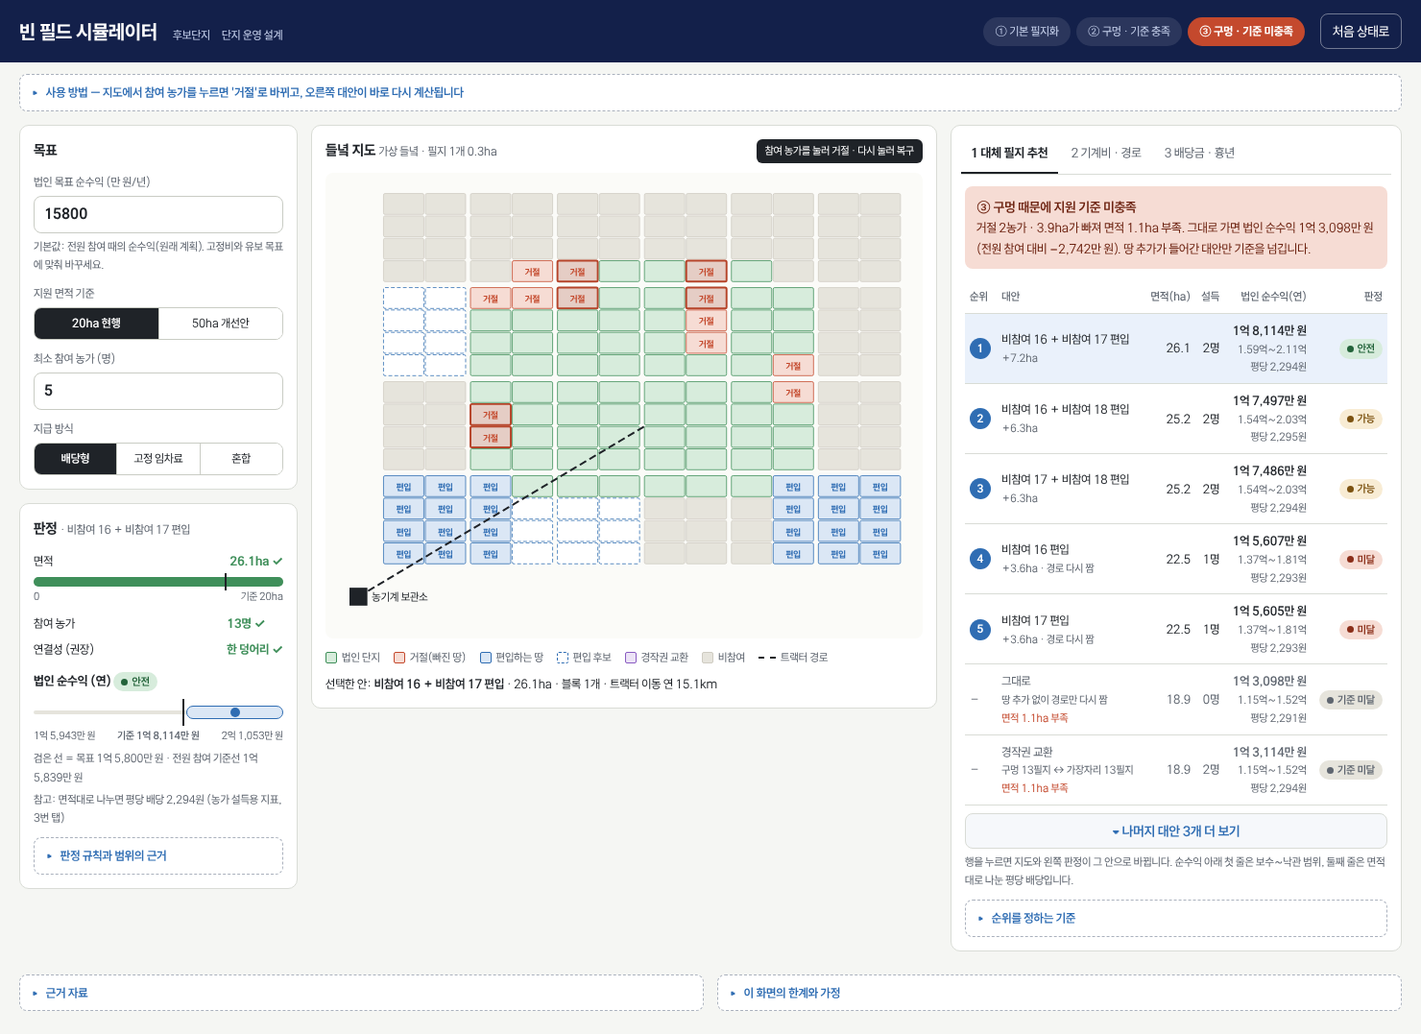
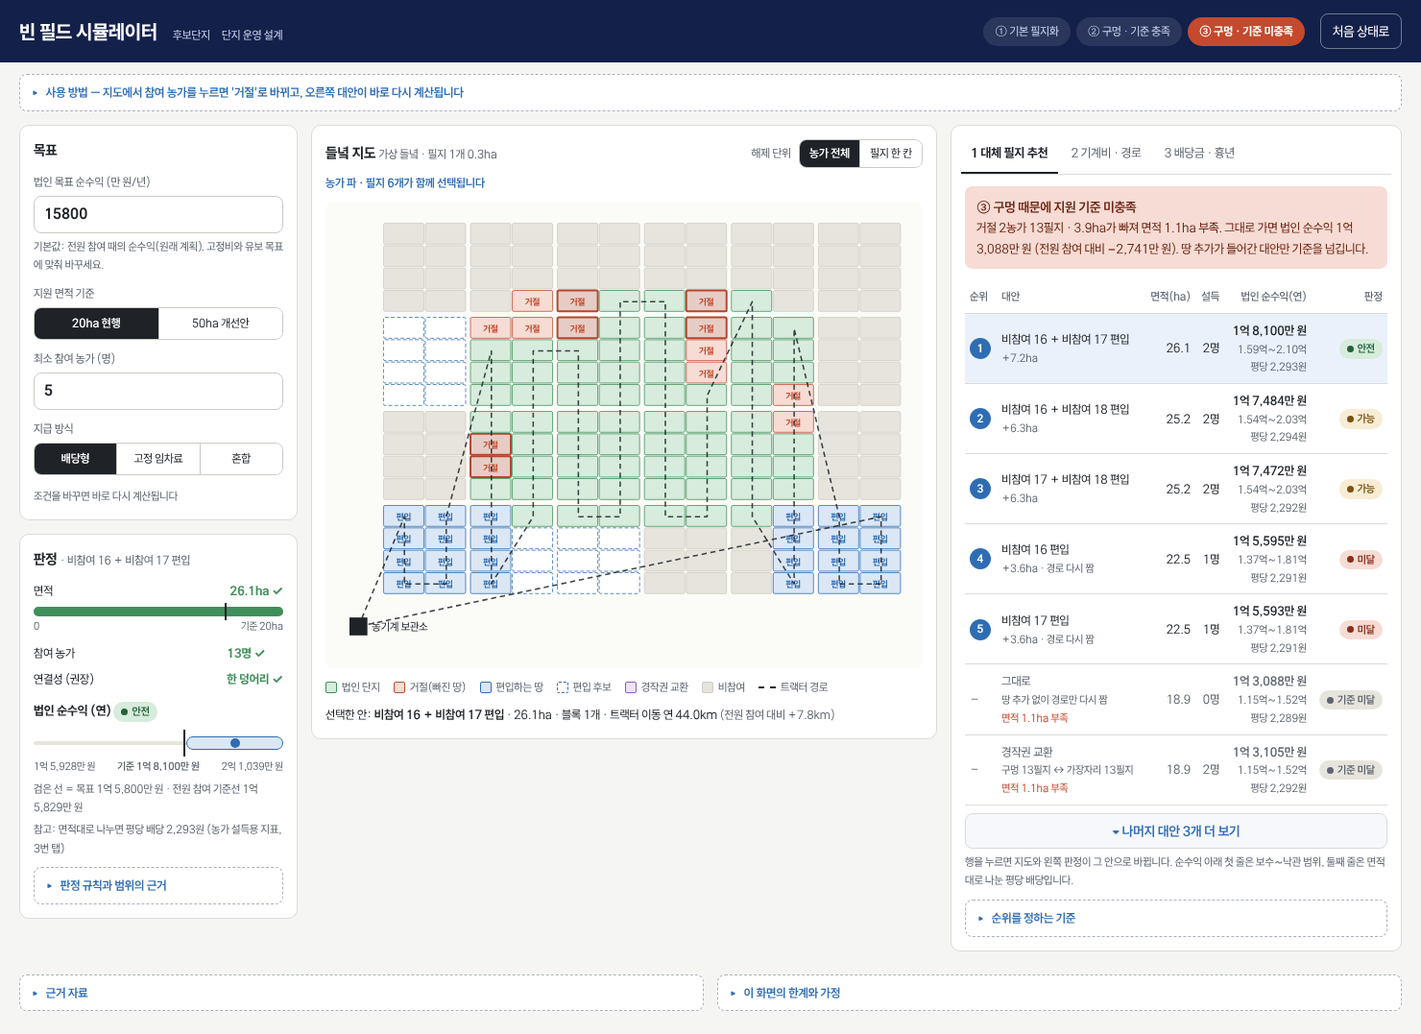
빈 필드 시뮬레이터: 해제 단위 전환, 재계산 표시, 대안별 작업 경로
- 지도에 해제 단위(농가 전체 / 필지 한 칸) 전환을 넣고, 마우스를 올리면
  함께 선택될 필지 수를 안내한다. 기본은 농가 단위로 둔다.
- 조건을 바꾸면 다시 계산된 영역을 잠깐 강조하고 무엇이 바뀌었는지
  표시한다. 전원 참여 상태에서도 기준 미충족이면 배너에 알린다.
- 트랙터 경로를 블록 중심 순회에서 열 단위 지그재그 작업 경로로 바꿔,
  구멍과 편입한 땅에 따라 대안마다 경로와 이동거리가 달라지게 했다.

Claude-Session: https://claude.ai/code/session_0161mLUcoBP3ViVYVjSdBr3X

Changed region(s): [[0.0, 0.2451, 0.6527, 0.8886], [0.2176, 0.1226, 0.6527, 0.2145], [0.6838, 0.2145, 0.9635, 0.2451]]

diff --git a/web/empty-field.js b/web/empty-field.js
@@ -16,7 +16,7 @@ const P = {
   PY_PER_HA: 3025,
   REV: { lo: 1152.9, mid: 1236.1, hi: 1348.7 },   // 만원/ha
   COST: 538,                  // 만원/ha
-  OPS: 8, SETUP_H: 0.25, TURN_H: 2 / 60, MACH_WON_H: 60000, SPEED_KMH: 12, DETOUR: 1.3,
+  OPS: 8, SETUP_H: 0.25, TURN_H: 2 / 60, MACH_WON_H: 60000, SPEED_KMH: 12,
   RENT_PY: 927, BONUS: 0.5,
   SEED: 7,
 };
@@ -86,21 +86,17 @@ function components(set) {
   return comps;
 }
 const dist = (a, b) => Math.hypot(a[0] - b[0], a[1] - b[1]);
-function tour(depot, pts) {
-  // 최근접 이웃 + 2-opt, 보관소에서 출발해 돌아온다
-  const rest = pts.slice(), path = [depot];
-  let cur = depot;
-  while (rest.length) { let bi = 0; rest.forEach((q, i) => { if (dist(cur, q) < dist(cur, rest[bi])) bi = i; }); cur = rest.splice(bi, 1)[0]; path.push(cur); }
-  path.push(depot);
-  let improved = true;
-  while (improved) {
-    improved = false;
-    for (let i = 1; i < path.length - 2; i++) for (let k = i + 1; k < path.length - 1; k++) {
-      const d0 = dist(path[i - 1], path[i]) + dist(path[k], path[k + 1]);
-      const d1 = dist(path[i - 1], path[k]) + dist(path[i], path[k + 1]);
-      if (d1 + 1e-6 < d0) { path.splice(i, k - i + 1, ...path.slice(i, k + 1).reverse()); improved = true; }
-    }
-  }
+// 작업 경로: 보관소에서 출발해, 농로로 나뉜 열을 왼쪽부터 차례로 지그재그로 돌며 모든 필지를 지나고 돌아온다.
+// 구멍은 건너뛰고(빈 칸만큼 경로가 길어짐), 편입한 땅은 경로에 더해진다. 대안마다 경로가 달라진다.
+function coverPath(set) {
+  const cols = new Map();
+  for (const id of set) { const p = F.parcels[id]; if (!cols.has(p.x)) cols.set(p.x, []); cols.get(p.x).push(p); }
+  const path = [F.depot];
+  [...cols.keys()].sort((a, b) => a - b).forEach((x, i) => {
+    const list = cols.get(x).sort((a, b) => (i % 2 ? b.y - a.y : a.y - b.y));
+    list.forEach((p) => path.push([cx(p), cy(p)]));
+  });
+  path.push(F.depot);
   let len = 0; for (let i = 1; i < path.length; i++) len += dist(path[i - 1], path[i]);
   return { path, km: len / 1000 };
 }
@@ -109,12 +105,11 @@ function tour(depot, pts) {
 function evaluate(set, extra = {}) {
   const area = set.size * P.HA;
   const comps = components(set);
-  const cents = comps.map((c) => { let sx = 0, sy = 0, a = 0; c.forEach((id) => { const p = F.parcels[id]; sx += cx(p); sy += cy(p); a++; }); return [sx / a, sy / a]; });
-  const t = tour(F.depot, cents);
+  const t = coverPath(set);
   let edges = 0;
   for (const id of set) for (const nb of neighbors(F.parcels[id])) if (!set.has(nb)) edges++;
   const setupH = comps.length * P.OPS * P.SETUP_H;
-  const travelH = t.km * P.DETOUR * P.OPS / P.SPEED_KMH;
+  const travelH = t.km * P.OPS / P.SPEED_KMH;
   const turnH = edges * P.OPS * P.TURN_H;
   const fieldH = area * P.OPS * 0.4;
   const machineWon = (setupH + travelH + turnH) * P.MACH_WON_H;
@@ -125,7 +120,7 @@ function evaluate(set, extra = {}) {
   const farmSet = new Set([...set].map((id) => F.parcels[id].owner));
   const memberFarms = [...farmSet].filter((f) => F.farms.get(f).member || (extra.added || []).includes(f));
   return {
-    set, area, blocks: comps.length, routeKm: t.km * P.DETOUR, path: t.path, edges,
+    set, area, blocks: comps.length, routeKm: t.km, path: t.path, edges,
     hours: setupH + travelH + turnH + fieldH, machineWon, per, pyeong,
     farms: memberFarms.length, net,
   };
@@ -136,15 +131,18 @@ const VERD = { safe: ["안전", "safe"], ok: ["가능", "ok"], bad: ["미달", "
 const RANK = { safe: 0, ok: 1, bad: 2 };
 
 // ---------------------------------------------------------------- 상태
-const S = { refused: new Set(), areaMin: 20, farmMin: 5, target: null, pay: "div", shock: 20, sel: null, tab: 1, hoverFarm: null };
+// off: 해제(거절)된 참여 필지 id. unit: 지도 클릭 단위(farm = 농가 전체, parcel = 필지 한 칸)
+const S = { off: new Set(), unit: "farm", areaMin: 20, farmMin: 5, target: null, pay: "div", shock: 20, sel: null, tab: 1, hover: null };
+const refusedFarms = () => new Set([...S.off].map((id) => F.parcels[id].owner));
 let F = buildField(P.SEED);
 let VIEW = null; // 마지막 계산 결과
 
 function memberParcels() { return F.parcels.filter((p) => p.member).map((p) => p.id); }
 
 function buildOptions() {
-  const base = new Set(memberParcels().filter((id) => !S.refused.has(F.parcels[id].owner)));
-  const holes = memberParcels().filter((id) => S.refused.has(F.parcels[id].owner));
+  const base = new Set(memberParcels().filter((id) => !S.off.has(id)));
+  const holes = memberParcels().filter((id) => S.off.has(id));
+  const nRefused = refusedFarms().size;
   const opts = [];
   const mk = (key, name, sub, set, persuade, meta = {}) => {
     const ev = evaluate(set, meta);
@@ -155,7 +153,7 @@ function buildOptions() {
     opts.push({ key, name, sub, persuade, meets, why: why.join(" · "), v: verdict(ev.net, S.target), ...meta, ev });
   };
 
-  if (!S.refused.size) {
+  if (!S.off.size) {
     mk("base", "기본 필지화", "전원 참여 · 구멍 없음", base, 0);
     return { opts, base, holes };
   }
@@ -172,7 +170,7 @@ function buildOptions() {
   if (edgeCands.length >= holes.length) {
     exGive = edgeCands.slice(0, holes.length);
     exSet = new Set([...base].filter((id) => !exGive.includes(id)).concat(holes));
-    mk("ex", "경작권 교환", `구멍 ${holes.length}필지 ↔ 가장자리 ${holes.length}필지`, exSet, S.refused.size, { exIn: holes, exOut: exGive });
+    mk("ex", "경작권 교환", `구멍 ${holes.length}필지 ↔ 가장자리 ${holes.length}필지`, exSet, nRefused, { exIn: holes, exOut: exGive });
   }
 
   // 땅 추가: 단지에 닿아 있는 비참여 농가를 농가 단위로 편입
@@ -191,7 +189,7 @@ function buildOptions() {
   }
   if (exSet && top.length) {
     const c = top[0];
-    mk(`exadd:${c.f}`, `교환 + ${c.f} 편입`, `구멍 메움 + ${(c.ids.length * P.HA).toFixed(1)}ha`, new Set([...exSet, ...c.ids]), S.refused.size + 1, { exIn: holes, exOut: exGive, added: [c.f], addIds: c.ids });
+    mk(`exadd:${c.f}`, `교환 + ${c.f} 편입`, `구멍 메움 + ${(c.ids.length * P.HA).toFixed(1)}ha`, new Set([...exSet, ...c.ids]), nRefused + 1, { exIn: holes, exOut: exGive, added: [c.f], addIds: c.ids });
   }
   return { opts, base, holes, candFarms: top.map((c) => c.f) };
 }
@@ -236,11 +234,19 @@ function recompute() {
   const { opts, holes, candFarms } = buildOptions();
   const ranked = rankOptions(opts);
   const keep = opts.find((o) => o.key === "keep" || o.key === "base");
-  const stage = !S.refused.size ? 0 : keep.meets ? 1 : 2;
+  const stage = !S.off.size ? 0 : keep.meets ? 1 : 2;
   if (!ranked.some((o) => o.key === S.sel)) S.sel = (ranked.find((o) => o.rank === 1) || ranked[0]).key;
   const sel = ranked.find((o) => o.key === S.sel);
   VIEW = { ranked, sel, stage, holes, candFarms: candFarms || [], keep, full };
   renderStepper(); renderBanner(); renderJudge(); renderMap(); renderOptions(); renderMachine(); renderPayout();
+}
+// 조건을 바꿨을 때 다시 계산된 영역을 잠깐 강조해, 바뀐 것을 눈으로 알 수 있게 한다
+function flash(note) {
+  ["banner", "judge", "optTable", "machine", "payout"].forEach((id) => {
+    const n = $(id); if (!n) return;
+    n.classList.remove("flash"); void n.offsetWidth; n.classList.add("flash");
+  });
+  if (note) { const s = $("recalc"); s.textContent = `${note} → 다시 계산했습니다`; s.classList.remove("flash"); void s.offsetWidth; s.classList.add("flash"); }
 }
 
 function renderStepper() {
@@ -253,13 +259,17 @@ function renderStepper() {
 
 function renderBanner() {
   const b = $("banner"), { stage, keep, holes } = VIEW;
-  const nRef = S.refused.size, holeHa = holes.length * P.HA;
+  const holeHa = holes.length * P.HA;
+  const who = `${refusedFarms().size}농가 ${holes.length}필지 · ${ha(holeHa)}`;
   b.className = `banner s${stage}`;
   const gap = keep.ev.net.mid - VIEW.full.net.mid;
   const netLine = `법인 순수익 ${krw(keep.ev.net.mid)} (전원 참여 대비 ${gap >= 0 ? "+" : "−"}${krw(Math.abs(gap))})`;
-  if (stage === 0) b.innerHTML = `<b>① 기본 필지화 · 전원 참여</b>참여 농가 ${keep.ev.farms}곳, ${ha(keep.ev.area)}, 법인 순수익 ${krw(keep.ev.net.mid)}. 이 결과가 모든 비교의 기준선입니다. 지도에서 참여 농가를 눌러 거절을 시험해 보세요.`;
-  else if (stage === 1) b.innerHTML = `<b>② 구멍이 났지만 지원 기준 충족</b>거절 ${nRef}농가 · ${ha(holeHa)}가 빠져도 ${ha(keep.ev.area)}로 기준(${S.areaMin}ha)을 넘습니다. 그대로 가면 ${netLine}. 아래에서 순수익을 되찾는 대안과 비교하세요.`;
-  else b.innerHTML = `<b>③ 구멍 때문에 지원 기준 미충족</b>거절 ${nRef}농가 · ${ha(holeHa)}가 빠져 ${keep.why}. 그대로 가면 ${netLine}. 땅 추가가 들어간 대안만 기준을 넘깁니다.`;
+  const goal = keep.ev.net.mid >= S.target ? `목표 순수익 ${krw(S.target)} 달성` : `목표 순수익 ${krw(S.target)}에 ${krw(S.target - keep.ev.net.mid)} 모자람`;
+  if (stage === 0) {
+    const crit = keep.meets ? `지원 기준 충족 · ${goal}` : `<span class="fail">전원 참여해도 지원 기준 미충족: ${esc(keep.why)}</span>`;
+    b.innerHTML = `<b>① 기본 필지화 · 전원 참여</b>참여 농가 ${keep.ev.farms}곳, ${ha(keep.ev.area)}, 법인 순수익 ${krw(keep.ev.net.mid)}. ${crit}. 이 결과가 모든 비교의 기준선입니다. 지도에서 참여 농가를 눌러 거절을 시험해 보세요.`;
+  } else if (stage === 1) b.innerHTML = `<b>② 구멍이 났지만 지원 기준 충족</b>거절 ${who}가 빠져도 ${ha(keep.ev.area)}로 기준(${S.areaMin}ha)을 넘습니다. 그대로 가면 ${netLine}, ${goal}. 아래에서 순수익을 되찾는 대안과 비교하세요.`;
+  else b.innerHTML = `<b>③ 구멍 때문에 지원 기준 미충족</b>거절 ${who}가 빠져 ${esc(keep.why)}. 그대로 가면 ${netLine}. 땅 추가가 들어간 대안만 기준을 넘깁니다.`;
 }
 
 function renderJudge() {
@@ -313,22 +323,26 @@ function renderMap() {
     if (exOut.has(p.id)) { fill = "#fff"; stroke = "var(--ex)"; dash = "5 3"; label = "→거절농가"; }
     if (!p.member && candSet.has(p.id) && !add.has(p.id)) { fill = "#fff"; stroke = "var(--cand)"; dash = "5 3"; }
     if (add.has(p.id)) { fill = "var(--cand-soft)"; stroke = "var(--cand)"; label = "편입"; }
-    if (S.hoverFarm && p.owner === S.hoverFarm) cls += " hl";
+    if (S.hover !== null && hoverGroup(S.hover).has(p.id)) cls += " hl";
     const r = el("rect", { x: px(p) * SX, y: py(p), width: P.PW * SX - 2, height: P.PH - 2, rx: 2, fill, stroke, class: cls, "data-id": p.id }, g);
     if (dash) r.setAttribute("stroke-dasharray", dash);
-    if (p.member) { r.setAttribute("tabindex", "0"); r.setAttribute("role", "button"); r.setAttribute("aria-label", `${p.owner} 필지, ${S.refused.has(p.owner) ? "거절됨. 눌러서 복구" : "참여 중. 눌러서 거절"}`); }
-    const tt = el("title", {}, r); tt.textContent = `${p.owner}${p.member ? (S.refused.has(p.owner) ? " · 거절" : " · 참여") : " · 비참여"}`;
+    const off = S.off.has(p.id), nFarm = F.farms.get(p.owner).parcels.length;
+    const scope = S.unit === "farm" ? `${p.owner}의 필지 ${nFarm}개 전체` : "이 필지 한 칸";
+    if (p.member) { r.setAttribute("tabindex", "0"); r.setAttribute("role", "button"); r.setAttribute("aria-label", `${p.owner} 필지, ${off ? "거절됨" : "참여 중"}. 누르면 ${scope}를 ${off ? "복구" : "해제"}`); }
+    const tt = el("title", {}, r);
+    tt.textContent = p.member ? `${p.owner} · ${off ? "거절" : "참여"}\n누르면 ${scope}를 ${off ? "복구" : "해제"}합니다` : `${p.owner} · 비참여 (${(nFarm * P.HA).toFixed(1)}ha)`;
     if (label) { const t = el("text", { x: (px(p) + P.PW / 2) * SX - 1, y: py(p) + P.PH / 2 + 5, "text-anchor": "middle", "font-size": 13, "font-weight": 700, fill: stroke, "pointer-events": "none" }, g); t.textContent = label; }
   });
   // 경로
   const pts = sel.ev.path.map((q) => `${q[0] * SX},${q[1]}`).join(" ");
-  el("polyline", { points: pts, fill: "none", stroke: "var(--ink)", "stroke-width": 2.5, "stroke-dasharray": "9 6", "stroke-linejoin": "round", "pointer-events": "none" }, svg);
+  el("polyline", { points: pts, fill: "none", stroke: "var(--ink)", "stroke-width": 2, "stroke-dasharray": "7 5", "stroke-linejoin": "round", "pointer-events": "none", opacity: 0.85 }, svg);
   const [dx, dy] = F.depot;
   el("rect", { x: dx * SX - 12, y: dy - 12, width: 24, height: 24, fill: "var(--ink)" }, svg);
   const t = el("text", { x: dx * SX + 18, y: dy + 6, "font-size": 16, fill: "var(--ink)" }, svg); t.textContent = "농기계 보관소";
 
   const e = sel.ev;
-  $("mapNote").innerHTML = `선택한 안: <b>${esc(sel.name)}</b> · ${ha(e.area)} · 블록 ${e.blocks}개 · 트랙터 이동 연 ${(e.routeKm * P.OPS).toFixed(1)}km`;
+  const dKm = (e.routeKm - VIEW.full.routeKm) * P.OPS;
+  $("mapNote").innerHTML = `선택한 안: <b>${esc(sel.name)}</b> · ${ha(e.area)} · 블록 ${e.blocks}개 · 트랙터 이동 연 ${(e.routeKm * P.OPS).toFixed(1)}km <span class="muted">(전원 참여 대비 ${dKm >= 0 ? "+" : "−"}${Math.abs(dKm).toFixed(1)}km)</span>`;
 }
 
 const SHOW = 5;
@@ -417,41 +431,65 @@ function renderPayout() {
 }
 
 // ---------------------------------------------------------------- 이벤트
-function toggleFarm(name) {
-  const f = F.farms.get(name);
-  if (!f || !f.member) return;
-  if (S.refused.has(name)) S.refused.delete(name); else S.refused.add(name);
+// 마우스를 올렸을 때 함께 선택될 필지: 농가 단위면 그 농가의 참여 필지 전체, 필지 단위면 한 칸
+function hoverGroup(id) {
+  const p = F.parcels[id];
+  if (!p.member) return new Set([id]);
+  return S.unit === "farm" ? new Set(F.farms.get(p.owner).parcels) : new Set([id]);
+}
+function toggleParcel(id) {
+  const p = F.parcels[id];
+  if (!p.member) return;
+  const ids = [...hoverGroup(id)];
+  const allOff = ids.every((i) => S.off.has(i));
+  ids.forEach((i) => (allOff ? S.off.delete(i) : S.off.add(i)));
   S.sel = null;
   recompute();
 }
-function bindSeg(id, key, conv) {
+function bindSeg(id, key, conv, label) {
   $(id).addEventListener("click", (ev) => {
     const b = ev.target.closest("button"); if (!b) return;
     $(id).querySelectorAll("button").forEach((x) => x.setAttribute("aria-pressed", String(x === b)));
-    S[key] = conv(b.dataset.v); recompute();
+    S[key] = conv(b.dataset.v); recompute(); if (label) flash(`${label}: ${b.textContent}`);
   });
+}
+function setHover(id) {
+  if (id === S.hover) return;
+  S.hover = id;
+  const grp = id === null ? new Set() : hoverGroup(id);
+  document.querySelectorAll("#map rect[data-id]").forEach((x) => x.classList.toggle("hl", grp.has(Number(x.dataset.id))));
+  const p = id === null ? null : F.parcels[id];
+  $("hoverInfo").textContent = !p ? "" : p.member
+    ? (S.unit === "farm" ? `${p.owner} · 필지 ${grp.size}개가 함께 선택됩니다` : `${p.owner}의 필지 한 칸`)
+    : `${p.owner} · 비참여 (${(F.farms.get(p.owner).parcels.length * P.HA).toFixed(1)}ha)`;
 }
 function selectTab(n) {
   S.tab = n;
   [1, 2, 3].forEach((i) => { $(`tab${i}`).setAttribute("aria-selected", String(i === n)); $(`pane${i}`).hidden = i !== n; });
 }
 function init() {
-  $("map").addEventListener("click", (ev) => { const r = ev.target.closest("rect[data-id]"); if (r) toggleFarm(F.parcels[Number(r.dataset.id)].owner); });
-  $("map").addEventListener("keydown", (ev) => { if ((ev.key === "Enter" || ev.key === " ") && ev.target.dataset && ev.target.dataset.id) { ev.preventDefault(); toggleFarm(F.parcels[Number(ev.target.dataset.id)].owner); } });
-  $("map").addEventListener("mouseover", (ev) => { const r = ev.target.closest("rect[data-id]"); const f = r ? F.parcels[Number(r.dataset.id)].owner : null; if (f !== S.hoverFarm) { S.hoverFarm = f; document.querySelectorAll("#map rect[data-id]").forEach((x) => x.classList.toggle("hl", !!f && F.parcels[Number(x.dataset.id)].owner === f)); } });
-  $("map").addEventListener("mouseleave", () => { S.hoverFarm = null; document.querySelectorAll("#map .hl").forEach((x) => x.classList.remove("hl")); });
+  $("map").addEventListener("click", (ev) => { const r = ev.target.closest("rect[data-id]"); if (r) toggleParcel(Number(r.dataset.id)); });
+  $("map").addEventListener("keydown", (ev) => { if ((ev.key === "Enter" || ev.key === " ") && ev.target.dataset && ev.target.dataset.id) { ev.preventDefault(); const id = Number(ev.target.dataset.id); toggleParcel(id); document.querySelector(`#map rect[data-id="${id}"]`)?.focus(); } });
+  $("map").addEventListener("mouseover", (ev) => { const r = ev.target.closest("rect[data-id]"); setHover(r ? Number(r.dataset.id) : null); });
+  $("map").addEventListener("focusin", (ev) => { const r = ev.target.closest("rect[data-id]"); if (r) setHover(Number(r.dataset.id)); });
+  $("map").addEventListener("mouseleave", () => setHover(null));
+  $("segUnit").addEventListener("click", (ev) => {
+    const b = ev.target.closest("button"); if (!b) return;
+    $("segUnit").querySelectorAll("button").forEach((x) => x.setAttribute("aria-pressed", String(x === b)));
+    S.unit = b.dataset.v; S.hover = null; renderMap();
+  });
   $("optTable").addEventListener("click", (ev) => {
     if (ev.target.closest("#btnMore")) { S.showAll = !S.showAll; renderOptions(); $("btnMore")?.focus(); return; }
     const tr = ev.target.closest("tr[data-key]"); if (tr) { S.sel = tr.dataset.key; recompute(); }
   });
   $("optTable").addEventListener("keydown", (ev) => { const tr = ev.target.closest("tr[data-key]"); if (tr && (ev.key === "Enter" || ev.key === " ")) { ev.preventDefault(); S.sel = tr.dataset.key; recompute(); document.querySelector(`tr[data-key="${CSS.escape(S.sel)}"]`)?.focus(); } });
-  $("inTarget").addEventListener("input", (ev) => { S.target = (Number(ev.target.value) || 0) * 1e4; recompute(); });
-  $("inFarmMin").addEventListener("input", (ev) => { S.farmMin = Number(ev.target.value) || 0; recompute(); });
+  $("inTarget").addEventListener("input", (ev) => { S.target = (Number(ev.target.value) || 0) * 1e4; recompute(); flash(`목표 순수익 ${krw(S.target)}`); });
+  $("inFarmMin").addEventListener("input", (ev) => { S.farmMin = Number(ev.target.value) || 0; recompute(); flash(`최소 참여 농가 ${S.farmMin}명`); });
   $("inShock").addEventListener("input", (ev) => { S.shock = Number(ev.target.value); renderPayout(); });
-  bindSeg("segArea", "areaMin", Number);
-  bindSeg("segPay", "pay", String);
+  bindSeg("segArea", "areaMin", Number, "면적 기준");
+  bindSeg("segPay", "pay", String, "지급 방식");
   [1, 2, 3].forEach((i) => $(`tab${i}`).addEventListener("click", () => selectTab(i)));
-  $("btnReset").addEventListener("click", () => { S.refused.clear(); S.sel = null; recompute(); });
+  $("btnReset").addEventListener("click", () => { S.off.clear(); S.sel = null; recompute(); flash("처음 상태로"); });
   recompute();
 }
 document.addEventListener("DOMContentLoaded", init);

diff --git a/web/empty-field.html b/web/empty-field.html
@@ -30,7 +30,7 @@
     <summary>사용 방법 — 지도에서 참여 농가를 누르면 '거절'로 바뀌고, 오른쪽 대안이 바로 다시 계산됩니다</summary>
     <ol class="steps">
       <li><b>목표를 정합니다.</b> 왼쪽에서 법인의 목표 순수익, 지원 면적 기준(20ha 또는 50ha), 지급 방식을 고릅니다.</li>
-      <li><b>거절 농가를 누릅니다.</b> 지도에서 초록 필지를 누르면 그 농가의 필지가 모두 빠집니다. 다시 누르면 돌아옵니다.</li>
+      <li><b>거절 농가를 누릅니다.</b> 지도에서 초록 필지를 누르면 그 농가의 필지가 모두 빠집니다(거절은 보통 농가 단위로 일어나므로). 한 칸만 빼 보고 싶으면 지도 위 "해제 단위"를 <b>필지 한 칸</b>으로 바꿉니다. 다시 누르면 돌아옵니다.</li>
       <li><b>상황을 확인합니다.</b> 위의 ①②③ 표시가 지금 상황을 알려 줍니다.</li>
       <li><b>대안을 고릅니다.</b> 오른쪽 1번 탭 표에서 대안을 누르면 지도에 편입 땅과 트랙터 경로가 겹쳐 보입니다.</li>
       <li><b>배당금을 봅니다.</b> 3번 탭에서 농가별 배당금과 흉년 때 금액을 확인합니다.</li>
@@ -62,6 +62,7 @@
             <button type="button" data-v="mix" aria-pressed="false">혼합</button>
           </div>
         </div>
+        <p class="recalc" id="recalc" aria-live="polite">조건을 바꾸면 바로 다시 계산됩니다</p>
       </section>
 
       <section class="card" aria-live="polite">
@@ -84,8 +85,15 @@
     <section class="col map" aria-label="들녘 지도">
       <div class="map-head">
         <h2>들녘 지도 <span class="muted">가상 들녘 · 필지 1개 0.3ha</span></h2>
-        <span class="tip">참여 농가를 눌러 거절 · 다시 눌러 복구</span>
+        <div class="unit">
+          <span class="muted">해제 단위</span>
+          <div class="seg" id="segUnit" role="radiogroup" aria-label="지도를 누를 때 해제되는 단위">
+            <button type="button" data-v="farm" aria-pressed="true">농가 전체</button>
+            <button type="button" data-v="parcel" aria-pressed="false">필지 한 칸</button>
+          </div>
+        </div>
       </div>
+      <p class="hover-info" id="hoverInfo" aria-live="polite"></p>
       <div class="map-wrap">
         <svg id="map" role="img" aria-label="필지 지도"></svg>
       </div>
@@ -131,7 +139,7 @@
           <ul class="list">
             <li>필지 안 작업비는 면적에 비례해 생산비에 이미 들어 있으므로, 여기서는 단지 모양 때문에 달라지는 <b>부대 기계비</b>만 셉니다.</li>
             <li>블록 진입·세팅: 블록 1개, 작업 1회당 15분</li>
-            <li>블록 사이 이동: 보관소 → 블록 중심 순회 경로(최근접 이웃 + 2-opt), 우회계수 1.3, 시속 12km</li>
+            <li>이동 경로: 보관소에서 출발해 농로로 나뉜 열을 왼쪽부터 지그재그로 돌며 법인 필지를 모두 지나고 돌아옵니다. 구멍은 건너뛰고, 편입한 땅은 경로에 더해지므로 대안마다 경로가 달라집니다. 시속 12km</li>
             <li>구멍 주변 회전: 단지 안쪽 경계 1변, 작업 1회당 2분</li>
             <li>연 작업 8회, 기계 시간당 6만 원(운전자 포함). 모두 가정값입니다.</li>
           </ul>

diff --git a/web/empty-field.css b/web/empty-field.css
@@ -86,6 +86,16 @@ input[type=range] { width: 100%; accent-color: var(--warn); }
 .map-head { display: flex; align-items: center; justify-content: space-between; gap: 10px; flex-wrap: wrap; }
 .map-head h2 { margin: 0; }
 .tip { background: var(--ink); color: #fff; font-size: 12px; padding: 3px 9px; border-radius: 6px; }
+.unit { display: flex; align-items: center; gap: 8px; }
+.unit .seg button { padding: 4px 10px; white-space: nowrap; }
+.hover-info { min-height: 1.4em; margin: 6px 0 0; font-size: 13px; color: var(--cand); font-weight: 600; }
+.recalc { margin: 12px 0 0; font-size: 12.5px; color: var(--muted); }
+/* 다시 계산된 영역을 잠깐 노랗게 강조 */
+@keyframes flashbg { 0% { background-color: #fff3c4; } 100% { background-color: transparent; } }
+@keyframes flashtxt { 0% { color: #7c5210; } 100% { color: var(--muted); } }
+.flash { animation: flashbg 1.2s ease-out; border-radius: 8px; }
+.recalc.flash { animation: flashtxt 2.5s ease-out; font-weight: 600; }
+@media (prefers-reduced-motion: reduce) { .flash, .recalc.flash { animation: none; } }
 .map-wrap { margin-top: 10px; background: #fbfbf8; border-radius: 8px; padding: 6px; }
 #map { width: 100%; height: auto; display: block; touch-action: manipulation; }
 .parcel { stroke-width: 1; cursor: default; }
